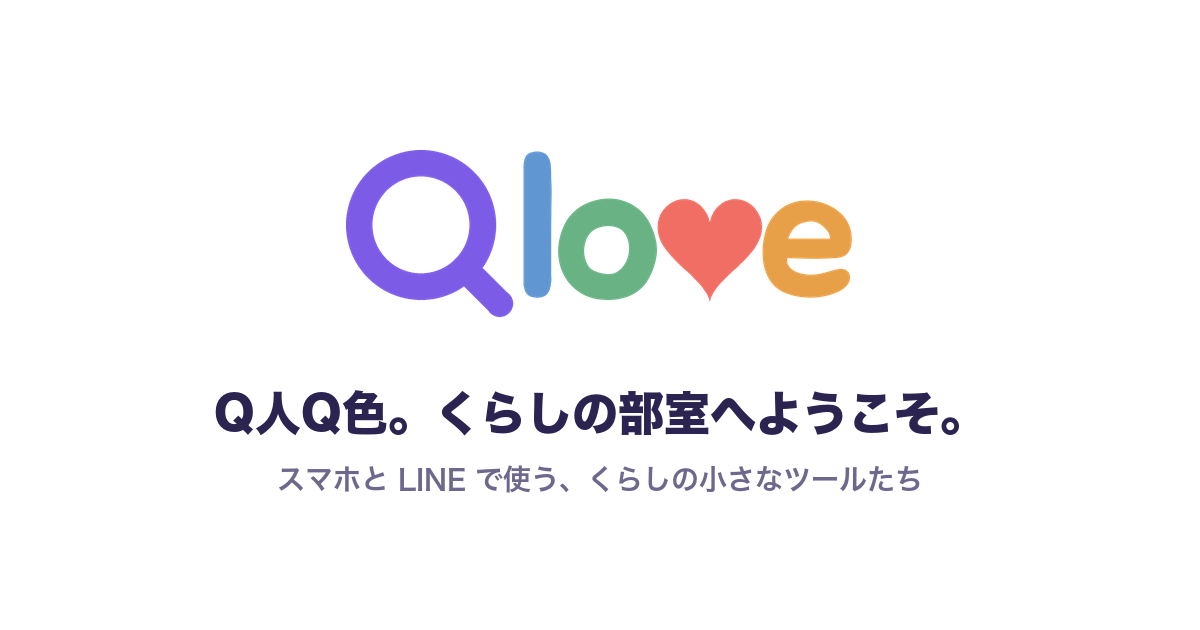
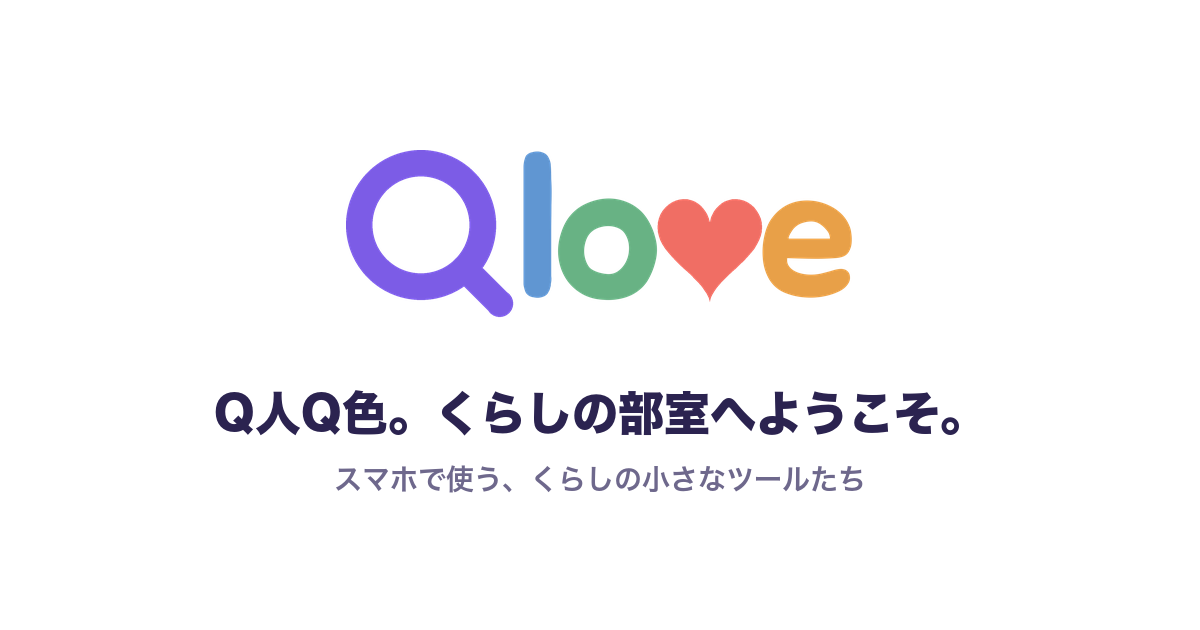
使う人の目線で見なおす：HOME の一覧にも「兼部」の印（くらぶのページと同じ）、HOME の説明と紹介のシートの説明を言葉の途中で折らないように、HOME の下の2つのリンクを押せる高さ（44px）に、つづくの LINE 版のよさから仕組みの言葉（GAS）を外す、くらぶの OGP の画像から LINE を外す（ux.md G5）。テスト：お知らせカードの前の名前のファイルが新しいファイルと同じ中身か・一覧の画面に出る言葉。README も今に合わせる

Changed region(s): [[0.2158, 0.7238, 0.7708, 0.7841]]

diff --git a/index.html b/index.html
@@ -21,15 +21,15 @@
     <meta property="og:image:height" content="630" />
     <meta property="og:image:alt" content="おくるん（OQRN）：写真やボタン付きのカードを、LINEで送れます。" />
     <meta name="twitter:card" content="summary_large_image" />
-    <link rel="stylesheet" href="./shared/ui.css?v=202610251141" />
+    <link rel="stylesheet" href="./shared/ui.css?v=202610251830" />
     <script src="https://static.line-scdn.net/liff/edge/2/sdk.js"></script>
-    <script src="./config.js?v=202610251141"></script>
-    <script src="./shared/log.js?v=202610251141"></script>
-    <script src="./shared/credit.js?v=202610251141"></script>
-    <script src="./shared/plan.js?v=202610251141"></script>
-    <script src="./shared/season.js?v=202610251141" defer></script>
-    <script src="./shared/liff.js?v=202610251141"></script>
-    <link rel="stylesheet" href="./style.css?v=202610251141" />
+    <script src="./config.js?v=202610251830"></script>
+    <script src="./shared/log.js?v=202610251830"></script>
+    <script src="./shared/credit.js?v=202610251830"></script>
+    <script src="./shared/plan.js?v=202610251830"></script>
+    <script src="./shared/season.js?v=202610251830" defer></script>
+    <script src="./shared/liff.js?v=202610251830"></script>
+    <link rel="stylesheet" href="./style.css?v=202610251830" />
   </head>
   <body>
     <main id="hub" class="ls-page">
@@ -41,7 +41,7 @@
       </div>
       <!-- キャッチコピーと説明。「紹介する」はその右 -->
       <div class="hub-lead-row">
-        <p class="hub-lead"><strong>つくって、おくるん<span class="hub-mark" aria-hidden="true"></span></strong>写真やボタン付きのカードを、LINEで送れます。<span id="hubSeason"></span></p>
+        <p class="hub-lead"><strong>つくって、おくるん<span class="hub-mark" aria-hidden="true"></span></strong>写真やボタン付きの<span class="hub-nowrap">カードを、</span><span class="hub-nowrap">LINEで送れます。</span><span id="hubSeason"></span></p>
         <button id="shareOpen" class="hub-share" type="button" aria-haspopup="dialog">📤 紹介する</button>
       </div>
       <!-- 最近つかったツール（ConneQt のツールを開くと覚える。なければ出さない） -->
@@ -105,8 +105,8 @@
       <div class="ls-sheet-card" role="dialog" aria-modal="true" aria-labelledby="shareTitle">
         <p id="shareTitle" class="ls-sheet-title">おくるんを紹介する</p>
         <div class="share-options">
-          <button id="shareCard" class="share-option" type="button"><span class="share-option-title is-oqrn">カードで送る</span><small>紹介カードを、選んだ LINE の友だち・グループに送ります</small></button>
-          <button id="shareLink" class="share-option" type="button">🔗 リンクでシェア<small>リンクを共有します（共有できないときはコピー）</small></button>
+          <button id="shareCard" class="share-option" type="button"><span class="share-option-title is-oqrn">カードで送る</span><small>紹介カードを、選んだ <span class="hub-nowrap">LINE の友だち</span>・<span class="hub-nowrap">グループに</span><span class="hub-nowrap">送ります</span></small></button>
+          <button id="shareLink" class="share-option" type="button">🔗 リンクでシェア<small>リンクを共有します<span class="hub-nowrap">（共有できないときは</span><span class="hub-nowrap">コピー）</span></small></button>
           <!-- 作成者（config.js の ownerUsers）だけに出す -->
           <button id="shareAll" class="share-option" type="button" hidden>🗂 全ツールのカードを送る<small id="shareAllNote">作成者だけ。おくるんとツールの紹介カードを横に並べて送ります（ツールが12個をこえたらグループごと）</small></button>
         </div>
@@ -129,7 +129,7 @@
       </div>
     </div>
 
-    <script src="./app.js?v=202610251141"></script>
+    <script src="./app.js?v=202610251830"></script>
     <!-- 電波がなくても開けるように（sw.js） -->
     <script>if ("serviceWorker" in navigator) navigator.serviceWorker.register("./sw.js").catch(() => {});</script>
   </body>

diff --git a/card/index.html b/card/index.html
@@ -11,31 +11,31 @@
     <meta name="theme-color" content="#16151a" media="(prefers-color-scheme: dark)">
     <title>お知らせカード｜おくるん</title>
     <meta name="description" content="見出し・写真・バッジ・リンクボタン付きのお知らせカードを、LINEのトークに送れます。" />
-    <link rel="stylesheet" href="../shared/ui.css?v=202610251141" />
-    <link rel="stylesheet" href="./style.css?v=202610251141" />
+    <link rel="stylesheet" href="../shared/ui.css?v=202610251830" />
+    <link rel="stylesheet" href="./style.css?v=202610251830" />
     <script src="https://static.line-scdn.net/liff/edge/2/sdk.js"></script>
-    <script src="../config.js?v=202610251141"></script>
-    <script src="../shared/log.js?v=202610251141"></script>
-    <script src="../shared/credit.js?v=202610251141"></script>
-    <script src="../shared/plan.js?v=202610251141"></script>
-    <script src="../shared/liff.js?v=202610251141"></script>
-    <script src="../shared/season.js?v=202610251141" defer></script>
-    <script src="../shared/ui.js?v=202610251141" defer></script>
+    <script src="../config.js?v=202610251830"></script>
+    <script src="../shared/log.js?v=202610251830"></script>
+    <script src="../shared/credit.js?v=202610251830"></script>
+    <script src="../shared/plan.js?v=202610251830"></script>
+    <script src="../shared/liff.js?v=202610251830"></script>
+    <script src="../shared/season.js?v=202610251830" defer></script>
+    <script src="../shared/ui.js?v=202610251830" defer></script>
     <!-- お知らせカードの本体。役割ごとのファイルを、この順に読む（core が先、main が最後。どれも同じ範囲の変数を使う） -->
-    <script src="./js/config.js?v=202610251141" defer></script>
-    <script src="./js/store.js?v=202610251141" defer></script>
-    <script src="./js/state.js?v=202610251141" defer></script>
-    <script src="./js/url.js?v=202610251141" defer></script>
-    <script src="./js/deck.js?v=202610251141" defer></script>
-    <script src="./js/render.js?v=202610251141" defer></script>
-    <script src="./js/kinds.js?v=202610251141" defer></script>
-    <script src="./js/soccer.js?v=202610251141" defer></script>
-    <script src="./js/card.js?v=202610251141" defer></script>
-    <script src="./js/photo.js?v=202610251141" defer></script>
-    <script src="./js/templates.js?v=202610251141" defer></script>
-    <script src="./js/send.js?v=202610251141" defer></script>
-    <script src="./js/events.js?v=202610251141" defer></script>
-    <script src="./app.js?v=202610251141" defer></script>
+    <script src="./js/config.js?v=202610251830" defer></script>
+    <script src="./js/store.js?v=202610251830" defer></script>
+    <script src="./js/state.js?v=202610251830" defer></script>
+    <script src="./js/url.js?v=202610251830" defer></script>
+    <script src="./js/deck.js?v=202610251830" defer></script>
+    <script src="./js/render.js?v=202610251830" defer></script>
+    <script src="./js/kinds.js?v=202610251830" defer></script>
+    <script src="./js/soccer.js?v=202610251830" defer></script>
+    <script src="./js/card.js?v=202610251830" defer></script>
+    <script src="./js/photo.js?v=202610251830" defer></script>
+    <script src="./js/templates.js?v=202610251830" defer></script>
+    <script src="./js/send.js?v=202610251830" defer></script>
+    <script src="./js/events.js?v=202610251830" defer></script>
+    <script src="./app.js?v=202610251830" defer></script>
   </head>
   <body class="ls-has-sendbar">
     <main class="ls-page">

diff --git a/shared/tool-share.js b/shared/tool-share.js
@@ -157,6 +157,7 @@
       .oqrn-mark { display: inline-block; width: 1.2em; height: 1.2em; margin-right: 0.2em; vertical-align: -0.22em; background: #6c47ff;
         -webkit-mask: url("${MARK_URL}") center / contain no-repeat; mask: url("${MARK_URL}") center / contain no-repeat; }
       .oqrn-sheet-option small { color: var(--ls-subtext, #6b6860); font-size: 13px; font-weight: 500; }
+      .oqrn-nw { white-space: nowrap; } /* 言葉の途中で折り返さない（Safari でも効くように、文節ごとに包む） */
       .oqrn-sheet-status { min-height: 1em; margin: 0; color: var(--ls-subtext, #6b6860); font-size: 13px; }
       .oqrn-sheet-close {
         min-height: 44px; border: 0; background: transparent; color: var(--ls-subtext, #6b6860); font: inherit; font-size: 14px; font-weight: 700; cursor: pointer;
@@ -438,8 +439,8 @@
     sheet.innerHTML = `
       <div class="oqrn-sheet-card" role="dialog" aria-modal="true" aria-labelledby="oqrnShareTitle">
         <p id="oqrnShareTitle" class="oqrn-sheet-title"></p>
-        <a class="oqrn-sheet-option is-primary" data-card><span><span class="oqrn-mark" aria-hidden="true"></span>カードで送る</span><small>おくるんで紹介カードを作って、LINE の友だち・グループに送ります</small></a>
-        <button class="oqrn-sheet-option" type="button" data-link>🔗 リンクでシェア<small>リンクを共有します（共有できないときはコピー）</small></button>
+        <a class="oqrn-sheet-option is-primary" data-card><span><span class="oqrn-mark" aria-hidden="true"></span>カードで送る</span><small>おくるんで<span class="oqrn-nw">紹介カードを</span><span class="oqrn-nw">作って、</span><span class="oqrn-nw">LINE の友だち</span>・<span class="oqrn-nw">グループに</span><span class="oqrn-nw">送ります</span></small></a>
+        <button class="oqrn-sheet-option" type="button" data-link>🔗 リンクでシェア<small>リンクを共有します<span class="oqrn-nw">（共有できないときは</span><span class="oqrn-nw">コピー）</span></small></button>
         <p class="oqrn-sheet-status" role="status"></p>
         <button class="oqrn-sheet-close" type="button" data-close>閉じる</button>
       </div>`;

diff --git a/image/app.js b/image/app.js
@@ -1,15 +1,15 @@
 // 文字・手書き（/image/）の入口：文字入りアイコンと手書きを1枚に重ね、縁取り・背景・動きを付けて、画像かカードで送る。
 // 中身：画面の設定・手書きの操作・プレビュー・送る・送った画像の一覧・設定を端末に残す。image/index.html が type="module" で読む。
 // 部品は js/：決まった値は config.js、描く処理は draw.js、動く画像は apng.js、送った画像は history.js、送るメッセージは card.js。
-import { MOTIONS, buildAnimationBlob, canvasToBlob, computeMotionTransform } from "./js/apng.js?v=202610251141";
-import { addSent, deleteSent, listSent, restoreSent } from "./js/history.js?v=202610251141";
+import { MOTIONS, buildAnimationBlob, canvasToBlob, computeMotionTransform } from "./js/apng.js?v=202610251830";
+import { addSent, deleteSent, listSent, restoreSent } from "./js/history.js?v=202610251830";
 
 import {
   ANIMATION_LONG_SIDE, BACKGROUNDS, BASE, BASIC_BACKGROUNDS, BASIC_COLORS, BUBBLE_SIZES, DEFAULT_PREFS, FONTS, HUES,
   LONG_SIDE, OUTLINES, OUTLINE_COLORS, OUTLINE_WIDTHS, PEN_SIZES, PEN_SIZE_MAX, PEN_SIZE_MIN, PREFS_KEY, SHAPES
-} from "./js/config.js?v=202610251141";
-import { buildLayer, compose, dims, fontOf, needsWebFont } from "./js/draw.js?v=202610251141";
-import { buildMessage } from "./js/card.js?v=202610251141";
+} from "./js/config.js?v=202610251830";
+import { buildLayer, compose, dims, fontOf, needsWebFont } from "./js/draw.js?v=202610251830";
+import { buildMessage } from "./js/card.js?v=202610251830";
 
 const config = window.LINE_SHARE_CONFIG || {};
 // よく使う文字は data/templates.json の text（開いたあとに読み込む）

diff --git a/plan/index.html b/plan/index.html
@@ -10,17 +10,17 @@
     <meta name="theme-color" content="#16151a" media="(prefers-color-scheme: dark)">
     <title>場所・予定｜おくるん</title>
     <meta name="description" content="Google Mapsの場所や予定をカードにして、LINEのトークに送れます。" />
-    <link rel="stylesheet" href="../shared/ui.css?v=202610251141" />
-    <link rel="stylesheet" href="./style.css?v=202610251141" />
+    <link rel="stylesheet" href="../shared/ui.css?v=202610251830" />
+    <link rel="stylesheet" href="./style.css?v=202610251830" />
     <script src="https://static.line-scdn.net/liff/edge/2/sdk.js"></script>
-    <script src="../config.js?v=202610251141"></script>
-    <script src="../shared/log.js?v=202610251141"></script>
-    <script src="../shared/credit.js?v=202610251141"></script>
-    <script src="../shared/plan.js?v=202610251141"></script>
-    <script src="../shared/liff.js?v=202610251141"></script>
-    <script src="../shared/season.js?v=202610251141" defer></script>
-    <script src="../shared/ui.js?v=202610251141" defer></script>
-    <script type="module" src="./app.js?v=202610251141"></script>
+    <script src="../config.js?v=202610251830"></script>
+    <script src="../shared/log.js?v=202610251830"></script>
+    <script src="../shared/credit.js?v=202610251830"></script>
+    <script src="../shared/plan.js?v=202610251830"></script>
+    <script src="../shared/liff.js?v=202610251830"></script>
+    <script src="../shared/season.js?v=202610251830" defer></script>
+    <script src="../shared/ui.js?v=202610251830" defer></script>
+    <script type="module" src="./app.js?v=202610251830"></script>
   </head>
   <body class="ls-has-sendbar">
     <main class="ls-page">

diff --git a/image/index.html b/image/index.html
@@ -14,17 +14,17 @@
     <link rel="preconnect" href="https://fonts.googleapis.com" />
     <link rel="preconnect" href="https://fonts.gstatic.com" crossorigin />
     <link rel="stylesheet" href="https://fonts.googleapis.com/css2?family=Klee+One:wght@600&family=Yomogi&display=swap" />
-    <link rel="stylesheet" href="../shared/ui.css?v=202610251141" />
-    <link rel="stylesheet" href="./style.css?v=202610251141" />
+    <link rel="stylesheet" href="../shared/ui.css?v=202610251830" />
+    <link rel="stylesheet" href="./style.css?v=202610251830" />
     <script src="https://static.line-scdn.net/liff/edge/2/sdk.js"></script>
-    <script src="../config.js?v=202610251141"></script>
-    <script src="../shared/log.js?v=202610251141"></script>
-    <script src="../shared/credit.js?v=202610251141"></script>
-    <script src="../shared/plan.js?v=202610251141"></script>
-    <script src="../shared/liff.js?v=202610251141"></script>
-    <script src="../shared/season.js?v=202610251141" defer></script>
-    <script src="../shared/ui.js?v=202610251141" defer></script>
-    <script type="module" src="./app.js?v=202610251141"></script>
+    <script src="../config.js?v=202610251830"></script>
+    <script src="../shared/log.js?v=202610251830"></script>
+    <script src="../shared/credit.js?v=202610251830"></script>
+    <script src="../shared/plan.js?v=202610251830"></script>
+    <script src="../shared/liff.js?v=202610251830"></script>
+    <script src="../shared/season.js?v=202610251830" defer></script>
+    <script src="../shared/ui.js?v=202610251830" defer></script>
+    <script type="module" src="./app.js?v=202610251830"></script>
   </head>
   <body class="ls-has-sendbar">
     <main class="ls-page">

diff --git a/data/test/hub-links.test.js b/data/test/hub-links.test.js
@@ -1,0 +1,38 @@
+// ツールの一覧（data/hub-links.json）の言葉のテスト。HOME・くらぶのページ・紹介のシートにそのまま出る。
+//   node --test data/test/
+"use strict";
+const test = require("node:test");
+const assert = require("node:assert");
+const fs = require("node:fs");
+const path = require("node:path");
+
+const DATA = JSON.parse(fs.readFileSync(path.join(__dirname, "../hub-links.json"), "utf8"));
+const SHOWN = ["name", "copy", "desc", "lead", "intro", "lineWhy"]; // 画面に出る欄
+
+// 画面の言葉に仕組みの言葉を出さない（docs/ux.md E2・G5）
+test("画面に出る言葉に、仕組みの言葉（GAS・API・LIFF など）がない", () => {
+  for (const item of DATA.items) {
+    for (const key of SHOWN) {
+      const text = item[key] || "";
+      assert.doesNotMatch(text, /\b(GAS|API|LIFF|JSON|webhook)\b/i, `${item.key}.${key}：${text}`);
+    }
+  }
+});
+
+// LINE 版のよさ（lineWhy）は、紹介のシートで文として出るので「。」で終える
+test("lineWhy は「。」で終わる", () => {
+  for (const item of DATA.items.filter((it) => it.lineWhy)) {
+    assert.match(item.lineWhy, /。$/, item.key);
+  }
+});
+
+// 兼部（also）は、ある部の key だけ。元の部と同じにしない
+test("兼部（also）は、ほかの部の key", () => {
+  const groups = new Set(DATA.groups.map((g) => g.key));
+  for (const item of DATA.items.filter((it) => it.also)) {
+    for (const key of item.also) {
+      assert.ok(groups.has(key), `${item.key} の also「${key}」がない`);
+      assert.notStrictEqual(key, item.group, `${item.key} の also が元の部と同じ`);
+    }
+  }
+});

diff --git a/plan/js/calendar.js b/plan/js/calendar.js
@@ -1,12 +1,12 @@
 // 場所・予定の「🗓 予定」タブ：件名・日時・場所などの入力、Google カレンダーに入れるリンク、プレビュー、送る。
 // 中身：入力欄のつなぎこみ・日時（終日・日をまたぐ予定・長さのボタン）・カレンダーのリンク作り・プレビューの描画。
 // plan/app.js が initCalendarTab・refreshCalendarTab・applyEventQuery・applyPlace・focusCalendarTitle を呼ぶ。
-import { app, autoGrow, escapeHtml, formatPlaceLocation, jumpAttrs, setMessage, shareFlex, toUserMessage, UserError, sentMessage } from "./page.js?v=202610251141";
-import { assertUriLength, isGoogleMapsUrl, isHttpUrl, isHttpsUrl, mapSearchUrl, openExternal, titleFromMapUrl } from "./link.js?v=202610251141";
-import { MAX_URI_LENGTH } from "./config.js?v=202610251141";
-import { bindHeader } from "./header.js?v=202610251141";
-import { createEventFlex } from "./card.js?v=202610251141";
-import { bindPlaceSearch } from "./place-search.js?v=202610251141";
+import { app, autoGrow, escapeHtml, formatPlaceLocation, jumpAttrs, setMessage, shareFlex, toUserMessage, UserError, sentMessage } from "./page.js?v=202610251830";
+import { assertUriLength, isGoogleMapsUrl, isHttpUrl, isHttpsUrl, mapSearchUrl, openExternal, titleFromMapUrl } from "./link.js?v=202610251830";
+import { MAX_URI_LENGTH } from "./config.js?v=202610251830";
+import { bindHeader } from "./header.js?v=202610251830";
+import { createEventFlex } from "./card.js?v=202610251830";
+import { bindPlaceSearch } from "./place-search.js?v=202610251830";
 
 const DAY_MS = 24 * 60 * 60 * 1000;
 const dom = {};

diff --git a/plan/js/map.js b/plan/js/map.js
@@ -1,11 +1,11 @@
 // 場所・予定の「📍 場所」タブ：Google Maps の場所を、写真・バッジ・コメント付きのカードにして送る。
 // 中身：入力欄のつなぎこみ・場所の検索と地図のリンク・バッジ・テンプレート（端末に残す）・送る。
 // plan/app.js が initMapTab・refreshMapTab・applyMapQuery を呼ぶ。予定タブへは onCreateEvent で場所を渡す。
-import { autoGrow, escapeHtml, setMessage, shareFlex, toUserMessage, UserError, app, sentMessage } from "./page.js?v=202610251141";
-import { assertUriLength, isGoogleMapsUrl, isHttpsUrl, mapSearchUrl, openExternal, titleFromMapUrl } from "./link.js?v=202610251141";
-import { bindPlaceSearch, hasPlaceSearch } from "./place-search.js?v=202610251141";
-import { bindHeader } from "./header.js?v=202610251141";
-import { createPlaceFlex } from "./card.js?v=202610251141";
+import { autoGrow, escapeHtml, setMessage, shareFlex, toUserMessage, UserError, app, sentMessage } from "./page.js?v=202610251830";
+import { assertUriLength, isGoogleMapsUrl, isHttpsUrl, mapSearchUrl, openExternal, titleFromMapUrl } from "./link.js?v=202610251830";
+import { bindPlaceSearch, hasPlaceSearch } from "./place-search.js?v=202610251830";
+import { bindHeader } from "./header.js?v=202610251830";
+import { createPlaceFlex } from "./card.js?v=202610251830";
 
 // バッジの候補とテンプレートは data/templates.json の place（開いたあとに読み込む）
 let DEFAULT_BADGES = [];

diff --git a/card/test/old-names.test.js b/card/test/old-names.test.js
@@ -1,0 +1,28 @@
+// お知らせカードの「前の名前のファイル」（2026-11-25 に消す。README）が、新しいファイルと同じ中身かを確かめる。
+// LINE の中のブラウザが前の HTML を覚えているときに読まれるので、片方だけ直すと、古い画面だけ動きがずれる。
+//   node --test card/test/
+"use strict";
+const test = require("node:test");
+const assert = require("node:assert");
+const fs = require("node:fs");
+const path = require("node:path");
+
+const CARD = path.join(__dirname, "..");
+// 前の名前 → 新しい名前（card/ からの道筋）
+const PAIRS = {
+  "js/main.js": "app.js",
+  "js/core.js": "js/config.js",
+  "js/storage.js": "js/store.js",
+  "js/flex.js": "js/card.js"
+};
+
+// 前の名前のファイルは、1行目の「前の名前（…に消す）」の説明を除けば、新しいファイルと同じ
+for (const [oldName, newName] of Object.entries(PAIRS)) {
+  test(`card/${oldName} は card/${newName} の写し`, () => {
+    const oldPath = path.join(CARD, oldName);
+    if (!fs.existsSync(oldPath)) return; // 消したあとは確かめない
+    const [head, ...rest] = fs.readFileSync(oldPath, "utf8").split("\n");
+    assert.match(head, /前の名前/);
+    assert.strictEqual(rest.join("\n"), fs.readFileSync(path.join(CARD, newName), "utf8"), `card/${newName} を直したら card/${oldName} にも写してね`);
+  });
+}

diff --git a/account/index.html b/account/index.html
@@ -10,14 +10,14 @@
     <meta name="robots" content="noindex" />
     <title>プラン｜おくるん</title>
     <meta name="description" content="おくるんのプラン（無料・有償）と、使える機能です。" />
-    <link rel="stylesheet" href="../shared/ui.css?v=202610251141" />
+    <link rel="stylesheet" href="../shared/ui.css?v=202610251830" />
     <script src="https://static.line-scdn.net/liff/edge/2/sdk.js"></script>
-    <script src="../config.js?v=202610251141"></script>
-    <script src="../shared/log.js?v=202610251141"></script>
-    <script src="../shared/credit.js?v=202610251141"></script>
-    <script src="../shared/plan.js?v=202610251141"></script>
-    <script src="../shared/liff.js?v=202610251141"></script>
-    <script src="./app.js?v=202610251141" defer></script>
+    <script src="../config.js?v=202610251830"></script>
+    <script src="../shared/log.js?v=202610251830"></script>
+    <script src="../shared/credit.js?v=202610251830"></script>
+    <script src="../shared/plan.js?v=202610251830"></script>
+    <script src="../shared/liff.js?v=202610251830"></script>
+    <script src="./app.js?v=202610251830" defer></script>
     <style>
       .plan-now {
         display: grid;

diff --git a/reply/index.html b/reply/index.html
@@ -10,13 +10,13 @@
     <meta name="robots" content="noindex" />
     <title>トークに送る｜おくるん</title>
     <meta name="description" content="おくるんのカードのボタンから、トークに返事を送ります。" />
-    <link rel="stylesheet" href="../shared/ui.css?v=202610251141" />
+    <link rel="stylesheet" href="../shared/ui.css?v=202610251830" />
     <script src="https://static.line-scdn.net/liff/edge/2/sdk.js"></script>
-    <script src="../config.js?v=202610251141"></script>
-    <script src="../shared/log.js?v=202610251141"></script>
-    <script src="../shared/liff.js?v=202610251141"></script>
-    <script src="../shared/season.js?v=202610251141" defer></script>
-    <script src="./app.js?v=202610251141" defer></script>
+    <script src="../config.js?v=202610251830"></script>
+    <script src="../shared/log.js?v=202610251830"></script>
+    <script src="../shared/liff.js?v=202610251830"></script>
+    <script src="../shared/season.js?v=202610251830" defer></script>
+    <script src="./app.js?v=202610251830" defer></script>
     <style>
       /* 送る文を LINE の吹き出し（自分の発言＝右寄せの緑）のように見せる */
       .reply-talk {
